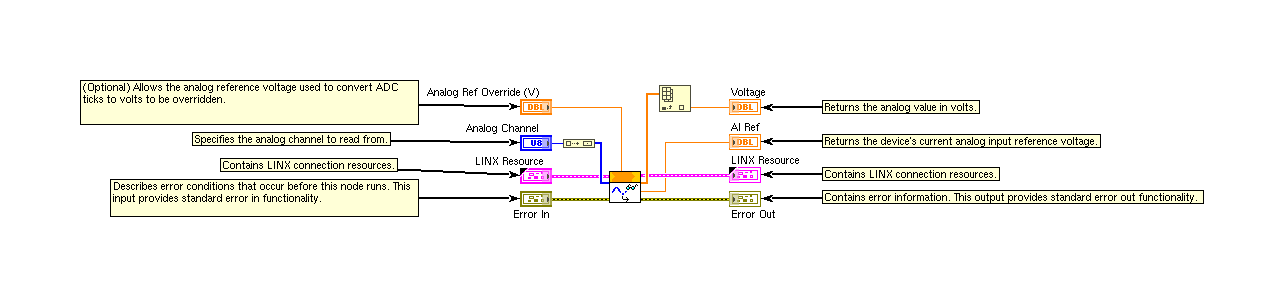
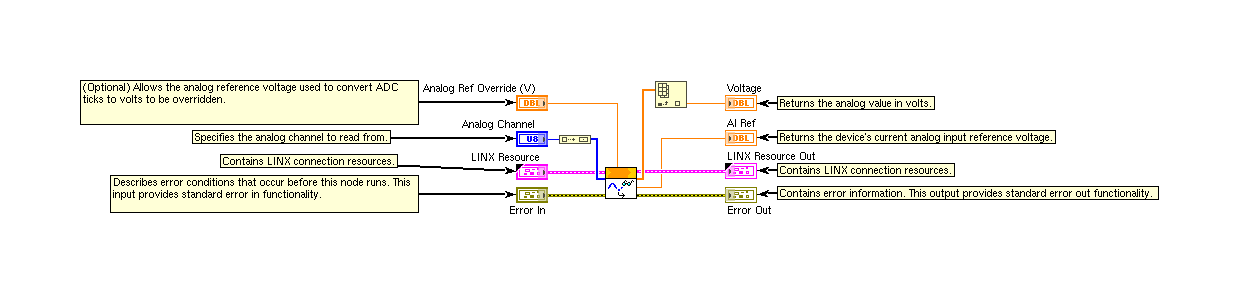
Publish to GitHub Pages

Changed region(s): [[0.0613, 0.2424, 0.9508, 0.7273]]

diff --git a/vidiff/pr-2/linux/vidiff/LabVIEW-vi.lib-MakerHub-LINX-Public-Peripherals-Analog-Analog_Read_1_Chan.vi/index.html b/vidiff/pr-2/linux/vidiff/LabVIEW-vi.lib-MakerHub-LINX-Public-Peripherals-Analog-Analog_Read_1_Chan.vi/index.html
@@ -4,7 +4,7 @@
 <body>
 <div class="report">
 <h1 class="report-title">LabVIEW VI Comparison Report</h1>
-<p class="generation-time">00:40:59 09/17/2026</p>
+<p class="generation-time">21:00:31 09/18/2026</p>
 <div class="compared-VIs">
 <details><summary class="difference-heading"><div class="dropdown-left">First VI: /workspace-base/LabVIEW/vi.lib/MakerHub/LINX/Public/Peripherals/Analog/Analog Read 1 Chan.vi</div><div class="dropdown-right">Second VI: /workspace/LabVIEW/vi.lib/MakerHub/LINX/Public/Peripherals/Analog/Analog Read 1 Chan.vi</div></summary>
 <table class="difference"><tr class="compared-vi-image-captions"><td class="compared-vi-image-caption">Front Panel Overview</td></tr>
@@ -29,26 +29,113 @@
 </ul>
 </div>
 <h2 class="section-header">Detailed Information</h2>
-<details class="cosmetic" closed>
+<details open>
 
-<summary class="difference-cosmetic-heading">1. Block Diagram objects</summary>
+<summary class="difference-heading">1. Block Diagram objects</summary>
 <table class="difference"><tr class="compared-vi-image-captions"><td class="compared-vi-image-caption">/workspace-base/LabVIEW/vi.lib/MakerHub/LINX/Public/Peripherals/Analog/Analog Read 1 Chan.vi</td><td class="difference-divider"></td><td class="compared-vi-image-caption">/workspace/LabVIEW/vi.lib/MakerHub/LINX/Public/Peripherals/Analog/Analog Read 1 Chan.vi</td></tr><tr class="compared-images"><td class="diff-image">
 
-<img class="difference-image" src="index_files/0_0_112_112_1.png" alt="index_files/0_0_112_112_1.png">
+<img class="difference-image" src="index_files/0_0_2424_2424_1.png" alt="index_files/0_0_2424_2424_1.png">
 </td><td class="difference-divider"></td><td class="diff-image">
 
-<img class="difference-image" src="index_files/0_0_112_112_2.png" alt="index_files/0_0_112_112_2.png">
+<img class="difference-image" src="index_files/0_0_2424_2424_2.png" alt="index_files/0_0_2424_2424_2.png">
 </td></tr></table>
 <ol class="detailed-description-list" type="A">
+<li class="diff-detail-cosmetic">Label  - moved : changed from "<tt>(-312,39)</tt>" to "<tt>(-308,43)</tt>"</li>
 <li class="diff-detail-cosmetic">Front Panel Terminal "Analog Ref Override (V)" - moved : changed from "<tt>(128,53)</tt>" to "<tt>(128,58)</tt>"</li>
 <li class="diff-detail-cosmetic">Index Array  - moved : changed from "<tt>(267,40)</tt>" to "<tt>(267,44)</tt>"</li>
 <li class="diff-detail-cosmetic">Front Panel Terminal "Voltage" - moved : changed from "<tt>(337,54)</tt>" to "<tt>(337,58)</tt>"</li>
-<li class="diff-detail-cosmetic">Label  - moved : changed from "<tt>(430,55)</tt>" to "<tt>(430,59)</tt>"</li>
+<li class="diff-detail">Front Panel Terminal "LINX Resource Out" - data type name : changed from "<tt>LINX Resource</tt>" to "<tt>LINX Resource Out</tt>"</li>
+<li class="diff-detail-cosmetic">Label  - moved : changed from "<tt>(430,55)</tt>" to "<tt>(389,59)</tt>"</li>
+<li class="diff-detail-cosmetic">Label  - moved : changed from "<tt>(430,126)</tt>" to "<tt>(389,126)</tt>"</li>
+</ol>
+</details>
+<details class="cosmetic" closed>
+
+<summary class="difference-cosmetic-heading">2. Block Diagram objects</summary>
+<table class="difference"><tr class="compared-vi-image-captions"><td class="compared-vi-image-caption">/workspace-base/LabVIEW/vi.lib/MakerHub/LINX/Public/Peripherals/Analog/Analog Read 1 Chan.vi</td><td class="difference-divider"></td><td class="compared-vi-image-caption">/workspace/LabVIEW/vi.lib/MakerHub/LINX/Public/Peripherals/Analog/Analog Read 1 Chan.vi</td></tr><tr class="compared-images"><td class="diff-image">
+
+<img class="difference-image" src="index_files/1_0_2184_2184_1.png" alt="index_files/1_0_2184_2184_1.png">
+</td><td class="difference-divider"></td><td class="diff-image">
+
+<img class="difference-image" src="index_files/1_0_2184_2184_2.png" alt="index_files/1_0_2184_2184_2.png">
+</td></tr></table>
+<ol class="detailed-description-list" type="A">
+<li class="diff-detail-cosmetic">Label  - moved : changed from "<tt>(-282,138)</tt>" to "<tt>(-278,138)</tt>"</li>
+</ol>
+</details>
+<details class="cosmetic" closed>
+
+<summary class="difference-cosmetic-heading">3. Block Diagram objects</summary>
+<table class="difference"><tr class="compared-vi-image-captions"><td class="compared-vi-image-caption">/workspace-base/LabVIEW/vi.lib/MakerHub/LINX/Public/Peripherals/Analog/Analog Read 1 Chan.vi</td><td class="difference-divider"></td><td class="compared-vi-image-caption">/workspace/LabVIEW/vi.lib/MakerHub/LINX/Public/Peripherals/Analog/Analog Read 1 Chan.vi</td></tr><tr class="compared-images"><td class="diff-image">
+
+<img class="difference-image" src="index_files/2_0_2410_2410_1.png" alt="index_files/2_0_2410_2410_1.png">
+</td><td class="difference-divider"></td><td class="diff-image">
+
+<img class="difference-image" src="index_files/2_0_2410_2410_2.png" alt="index_files/2_0_2410_2410_2.png">
+</td></tr></table>
+<ol class="detailed-description-list" type="A">
+<li class="diff-detail-cosmetic">Label  - moved : changed from "<tt>(-200,91)</tt>" to "<tt>(-196,93)</tt>"</li>
+</ol>
+</details>
+<details class="cosmetic" closed>
+
+<summary class="difference-cosmetic-heading">4. Block Diagram objects</summary>
+<table class="difference"><tr class="compared-vi-image-captions"><td class="compared-vi-image-caption">/workspace-base/LabVIEW/vi.lib/MakerHub/LINX/Public/Peripherals/Analog/Analog Read 1 Chan.vi</td><td class="difference-divider"></td><td class="compared-vi-image-caption">/workspace/LabVIEW/vi.lib/MakerHub/LINX/Public/Peripherals/Analog/Analog Read 1 Chan.vi</td></tr><tr class="compared-images"><td class="diff-image">
+
+<img class="difference-image" src="index_files/3_0_2192_2192_1.png" alt="index_files/3_0_2192_2192_1.png">
+</td><td class="difference-divider"></td><td class="diff-image">
+
+<img class="difference-image" src="index_files/3_0_2192_2192_2.png" alt="index_files/3_0_2192_2192_2.png">
+</td></tr></table>
+<ol class="detailed-description-list" type="A">
+<li class="diff-detail-cosmetic">Label  - moved : changed from "<tt>(-172,117)</tt>" to "<tt>(-168,117)</tt>"</li>
+</ol>
+</details>
+<details class="cosmetic" closed>
+
+<summary class="difference-cosmetic-heading">5. Block Diagram objects</summary>
+<table class="difference"><tr class="compared-vi-image-captions"><td class="compared-vi-image-caption">/workspace-base/LabVIEW/vi.lib/MakerHub/LINX/Public/Peripherals/Analog/Analog Read 1 Chan.vi</td><td class="difference-divider"></td><td class="compared-vi-image-caption">/workspace/LabVIEW/vi.lib/MakerHub/LINX/Public/Peripherals/Analog/Analog Read 1 Chan.vi</td></tr><tr class="compared-images"><td class="diff-image">
+
+<img class="difference-image" src="index_files/4_0_2268_2268_1.png" alt="index_files/4_0_2268_2268_1.png">
+</td><td class="difference-divider"></td><td class="diff-image">
+
+<img class="difference-image" src="index_files/4_0_2268_2268_2.png" alt="index_files/4_0_2268_2268_2.png">
+</td></tr></table>
+<ol class="detailed-description-list" type="A">
+<li class="diff-detail-cosmetic">Label  - moved : changed from "<tt>(430,93)</tt>" to "<tt>(389,93)</tt>"</li>
+</ol>
+</details>
+<details class="cosmetic" closed>
+
+<summary class="difference-cosmetic-heading">6. Block Diagram objects</summary>
+<table class="difference"><tr class="compared-vi-image-captions"><td class="compared-vi-image-caption">/workspace-base/LabVIEW/vi.lib/MakerHub/LINX/Public/Peripherals/Analog/Analog Read 1 Chan.vi</td><td class="difference-divider"></td><td class="compared-vi-image-caption">/workspace/LabVIEW/vi.lib/MakerHub/LINX/Public/Peripherals/Analog/Analog Read 1 Chan.vi</td></tr><tr class="compared-images"><td class="diff-image">
+
+<img class="difference-image" src="index_files/5_0_2197_2197_1.png" alt="index_files/5_0_2197_2197_1.png">
+</td><td class="difference-divider"></td><td class="diff-image">
+
+<img class="difference-image" src="index_files/5_0_2197_2197_2.png" alt="index_files/5_0_2197_2197_2.png">
+</td></tr></table>
+<ol class="detailed-description-list" type="A">
+<li class="diff-detail-cosmetic">Label  - moved : changed from "<tt>(430,149)</tt>" to "<tt>(389,149)</tt>"</li>
 </ol>
 </details>
 <details open>
 
-<summary class="difference-heading">2. VI Attribute - Miscellaneous</summary>
+<summary class="difference-heading">7. Front Panel - Type Definition</summary>
+<table class="difference"><tr class="compared-vi-image-captions"><td class="compared-vi-image-caption">/workspace-base/LabVIEW/vi.lib/MakerHub/LINX/Public/Peripherals/Analog/Analog Read 1 Chan.vi</td><td class="difference-divider"></td><td class="compared-vi-image-caption">/workspace/LabVIEW/vi.lib/MakerHub/LINX/Public/Peripherals/Analog/Analog Read 1 Chan.vi</td></tr><tr class="compared-images"><td class="diff-image">
+
+<img class="difference-image" src="index_files/6_0_711_711_1.png" alt="index_files/6_0_711_711_1.png">
+</td><td class="difference-divider"></td><td class="diff-image">
+
+<img class="difference-image" src="index_files/6_0_711_711_2.png" alt="index_files/6_0_711_711_2.png">
+</td></tr></table>
+<ol class="detailed-description-list" type="A">
+<li class="diff-detail">Type Definition "LINX Resource Out" - data type name : changed from "<tt>LINX Resource</tt>" to "<tt>LINX Resource Out</tt>"</li>
+</ol>
+</details>
+<details open>
+
+<summary class="difference-heading">8. VI Attribute - Miscellaneous</summary>
 <ol class="detailed-description-list" type="A">
 <li class="diff-detail">	VI Version : changed from "19.0" to "26.0"</li>
 </ol>
